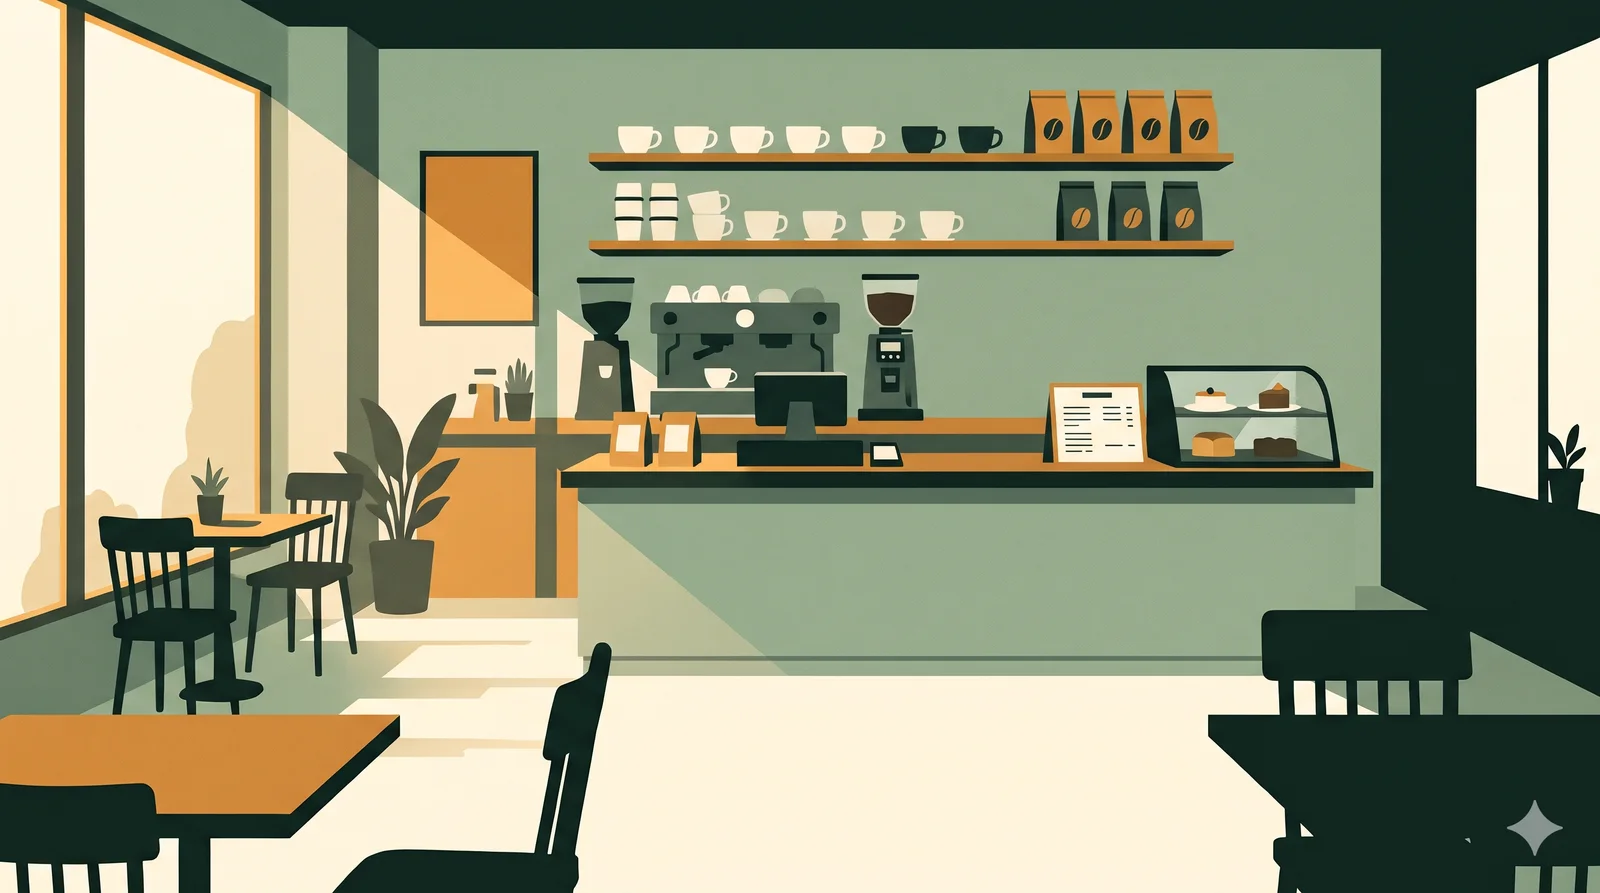
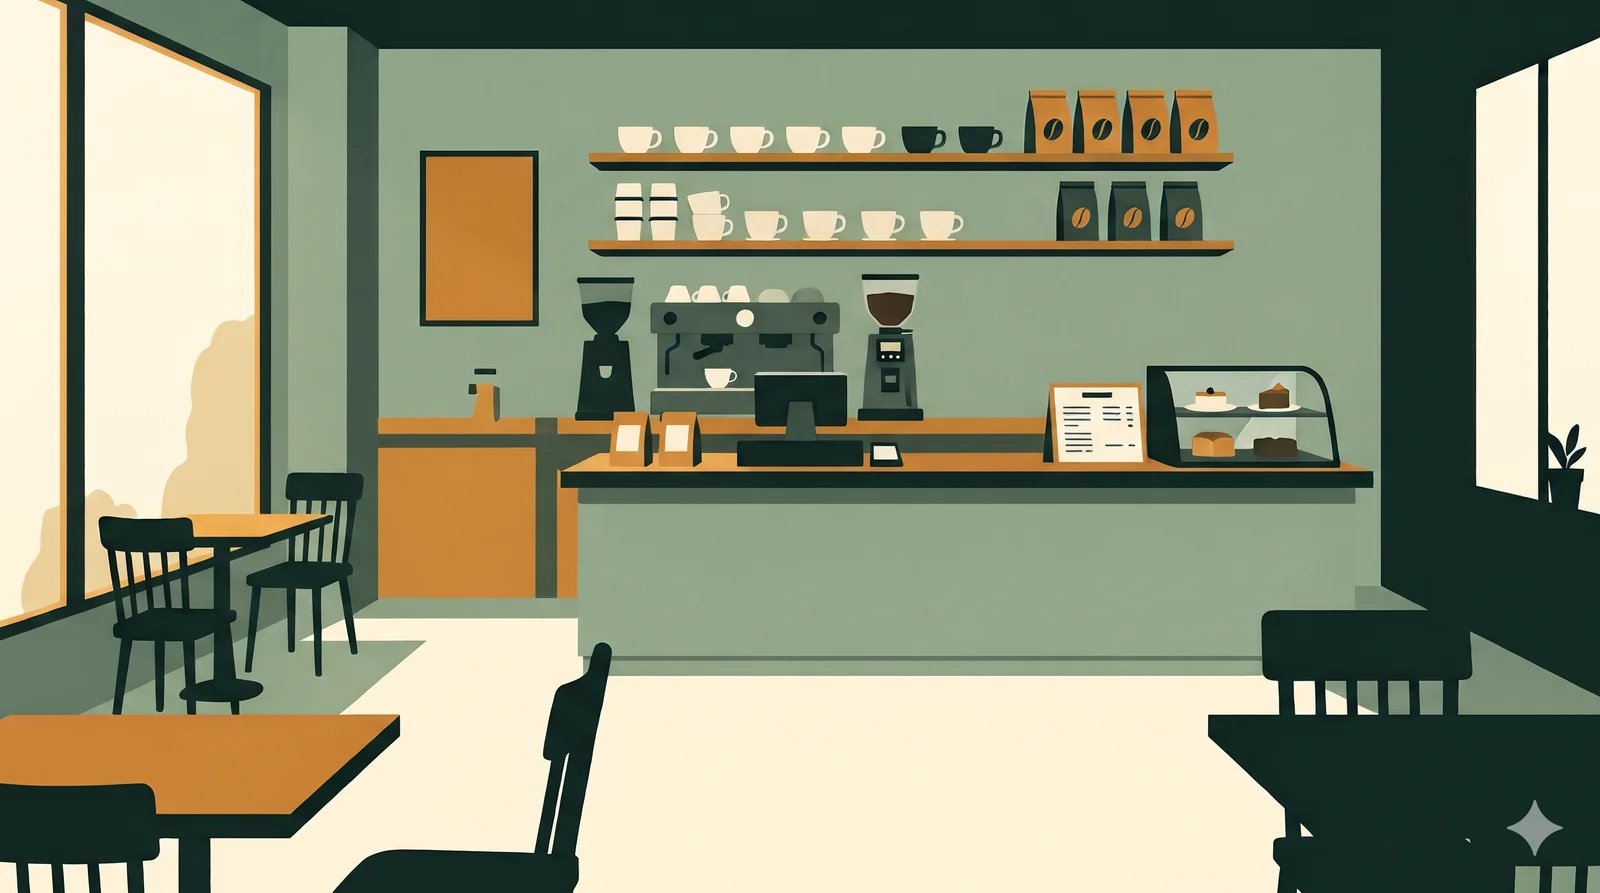
술술 카페: 배경도 살짝 살아 있게(Gemini로 화분·햇살을 지운 그림과 김을 더한 그림을 받아 층으로 떼어 냄 — 햇살은 천천히 밝아졌다 흐려지고, 화분은 흔들리고, 김은 피어오름), 장면 순서를 나 → 듣기 → 수첩으로(먼저 말해 보고 다른 손님 대화를 들음)

diff --git a/sulsul/scene.js b/sulsul/scene.js
@@ -3,9 +3,11 @@
 const CAFE = {
   who: "Leo", whoKo: "바리스타", pos: "62% 50%", voices: { them: "m", guest: "f" },
   // 움직이는 겹: 바리스타를 지운 배경 + 팔 없는 몸(숨 쉬듯) + 팔 한 층(카운터 위 팔꿈치 축으로 인사) + 앞 카운터 선반·메뉴판. 좌표는 원본 2752×1536 기준
-  layers: { w: 2752, h: 1536, plate: "img/scenes/cafe/plate.webp", box: [1560, 340, 430, 455], body: "img/scenes/cafe/body.png", hand: "img/scenes/cafe/hand.png", pivot: [1630, 720], front: [["img/scenes/cafe/counter.png", 1560, 716, 90, 54], ["img/scenes/cafe/menu.png", 1800, 652, 172, 144]] },
+  layers: { w: 2752, h: 1536, plate: "img/scenes/cafe/plate.webp", box: [1560, 340, 430, 455], body: "img/scenes/cafe/body.png", hand: "img/scenes/cafe/hand.png", pivot: [1630, 720], front: [["img/scenes/cafe/counter.png", 1560, 716, 90, 54], ["img/scenes/cafe/menu.png", 1800, 652, 172, 144]],
+    // 배경도 살짝: 햇살이 밝아졌다 흐려지고, 화분이 흔들리고, 김이 피어오른다 (Gemini로 각각 지운·더한 그림에서 떼어 냄)
+    amb: [["img/scenes/cafe/light.webp", 0, 1, 2094, 1207, "glow"], ["img/scenes/cafe/plant.png", 570, 672, 224, 392, "sway"], ["img/scenes/cafe/steam.png", 1106, 0, 558, 479, "steam"]] },
   overhear: [
-    ["them", "Good morning! What can I get for you?"],
+    ["them", "Next, please! Hi there, what can I get for you?"],
     ["guest", "Hi, can I get a hot latte, please?", [["can I get", "~ 주세요", "주문할 때 가장 흔한 말이에요. Give me보다 부드러워요."]]],
     ["them", "Sure. What size?"],
     ["guest", "A small one, please.", [["a small one", "작은 거", "one은 앞에서 말한 라테를 가리켜요. 같은 말을 또 하지 않아도 돼요."]]],
@@ -14,7 +16,7 @@ const CAFE = {
     ["them", "That's four fifty. Here's your receipt.", [["four fifty", "4달러 50센트", "가격은 숫자를 둘로 끊어 읽어요."], ["receipt", "영수증", "p는 소리 없어요. '리싯'에 가까워요."]]]
   ],
   turns: [
-    { say: "Next, please! Hi there, what can I get for you?", want: "아이스 아메리카노 하나 주문하기", need: [["아메리카노", ["americano"]]], hint: ["Can I get ~?", "Can I get an…", "Can I get an iced americano, please?"], model: "Can I get an iced americano, please?" },
+    { say: "Good morning! What can I get for you?", want: "아이스 아메리카노 하나 주문하기", need: [["아메리카노", ["americano"]]], hint: ["Can I get ~?", "Can I get an…", "Can I get an iced americano, please?"], model: "Can I get an iced americano, please?" },
     { say: "Sure! What size would you like?", want: "큰 걸로 달라고 하기", need: [["큰 것", ["large", "big", "grande", "venti"]]], hint: ["a ___ one", "A large…", "A large one, please."], model: "A large one, please." },
     { say: "For here or to go?", want: "가져갈 거라고 말하기", need: [["가져가기", ["to go", "take out", "takeout", "take it", "take away", "takeaway"]]], hint: ["To ~, please.", "To go…", "To go, please."], model: "To go, please." },
     { say: "That's five twenty. Cash or card?", want: "카드로 낸다고 하기", need: [["카드", ["card"]]], hint: ["Can I pay by ~?", "Can I pay…", "Can I pay by card?"], model: "Can I pay by card?" },
@@ -66,7 +68,7 @@ $("daystrip").onclick = e => {
 
 // ───── 장면 ─────
 let SC = null;
-const PHASES = ["엿듣기", "내 차례", "수첩"];
+const PHASES = ["나", "듣기", "수첩"];
 function openScene(sc) {
   SC = { sc, phase: 0, line: 0, turn: 0, log: [], hint: 0, tries: 0, played: false };
   nav("scene"); buildStage(sc);
@@ -80,6 +82,7 @@ function buildStage(sc) {
   const pc = (v, t) => (100 * v / t) + "%", [bx, by, bw, bh] = L2.box;
   el.dataset.w = L2.w; el.dataset.h = L2.h;
   el.innerHTML = `<img src="${L2.plate}" alt="">
+    ${(L2.amb || []).map(([src, x, y, w, h, c]) => `<img class="amb ${c}" src="${src}" alt="" style="left:${pc(x, L2.w)};top:${pc(y, L2.h)};width:${pc(w, L2.w)};height:${pc(h, L2.h)}">`).join("")}
     <div class="breath" style="left:${pc(bx, L2.w)};top:${pc(by, L2.h)};width:${pc(bw, L2.w)};height:${pc(bh, L2.h)}">
       <img src="${L2.body}" alt=""><img class="handwave" src="${L2.hand}" alt="" style="transform-origin:${pc(L2.pivot[0] - bx, bw)} ${pc(L2.pivot[1] - by, bh)}">
     </div>
@@ -98,23 +101,23 @@ function phase(n) {
   SC.phase = n;
   $("scsteps").innerHTML = PHASES.map((p, i) => `<span class="${i === n ? "on" : i < n ? "done" : ""}">${p}</span>`).join("");
   $("scbubble").hidden = true; $("chunkcard").hidden = true;
-  if (n === 0) overhear();
-  if (n === 1) myTurn();
+  if (n === 0) myTurn();
+  if (n === 1) overhear();
   if (n === 2) notebook();
 }
 const chunked = (en, chunks = []) => chunks.reduce((h, [c], i) => h.replace(new RegExp(c.replace(/[.*+?^${}()|[\]\\]/g, "\\$&"), "i"), m => `<span class="chunk" role="button" tabindex="0" data-c="${i}">${m}</span>`), esc(en));
 function bubble(who, en, ko) {
   const b = $("scbubble"); b.hidden = false; b.className = "bubble2 " + who;
-  b.innerHTML = `<small>${who === "them" ? `${SC.sc.who} · ${SC.sc.whoKo}` : who === "guest" ? "앞 손님" : "나"}</small><span lang="en">${esc(en)}</span>${ko ? `<em>${esc(ko)}</em>` : ""}`;
+  b.innerHTML = `<small>${who === "them" ? `${SC.sc.who} · ${SC.sc.whoKo}` : who === "guest" ? "다음 손님" : "나"}</small><span lang="en">${esc(en)}</span>${ko ? `<em>${esc(ko)}</em>` : ""}`;
   b.style.animation = "none"; void b.offsetWidth; b.style.animation = "";
 }
-// 1. 엿듣기: 점원과 앞 손님 대화가 흘러간다. 밑줄 덩어리를 누르면 뜻과 이유
+// 2. 듣기: 내가 먼저 말해 본 뒤, 다른 손님이 같은 주문을 하는 걸 듣는다. 밑줄 덩어리를 누르면 뜻과 이유
 async function overhear() {
   const lines = SC.sc.overhear;
-  $("scpanel").innerHTML = `<p class="lead2">앞 손님이 주문하는 걸 엿들어요. 밑줄 친 말을 누르면 뜻이 나와요.</p><ol class="script" id="script"></ol>
-    <div class="scfoot"><button class="btn ghost" id="replay"><i class="ph-fill ph-speaker-high"></i>다시 듣기</button><button class="btn" id="tome" disabled>내 차례 <i class="ph-bold ph-arrow-right"></i></button></div>`;
+  $("scpanel").innerHTML = `<p class="lead2">이번엔 다른 손님이 주문하는 걸 들어요. 내가 막혔던 말이 어떻게 나오는지 들어 보세요. 밑줄 친 말을 누르면 뜻이 나와요.</p><ol class="script" id="script"></ol>
+    <div class="scfoot"><button class="btn ghost" id="replay"><i class="ph-fill ph-speaker-high"></i>다시 듣기</button><button class="btn" id="tome" disabled>수첩 보기 <i class="ph-bold ph-arrow-right"></i></button></div>`;
   $("replay").onclick = () => playScript();
-  $("tome").onclick = () => phase(1);
+  $("tome").onclick = () => phase(2);
   $("script").onclick = e => { const c = e.target.closest(".chunk"); if (!c) return; const li = c.closest("li"), ch = lines[+li.dataset.i][2][+c.dataset.c]; showChunk(ch) };
   $("script").onkeydown = e => { if ((e.key === "Enter" || e.key === " ") && e.target.closest(".chunk")) { e.preventDefault(); e.target.click() } };
   playScript();
@@ -124,9 +127,9 @@ async function playScript() {
   const run = ++playing, lines = SC.sc.overhear;
   $("script").innerHTML = "";
   for (let i = 0; i < lines.length; i++) {
-    if (run !== playing || SC?.phase !== 0) return;
+    if (run !== playing || SC?.phase !== 1) return;
     const [who, en, ch] = lines[i];
-    $("script").insertAdjacentHTML("beforeend", `<li class="${who}" data-i="${i}"><small>${who === "them" ? SC.sc.who : "앞 손님"}</small><span lang="en">${chunked(en, ch)}</span></li>`);
+    $("script").insertAdjacentHTML("beforeend", `<li class="${who}" data-i="${i}"><small>${who === "them" ? SC.sc.who : "다음 손님"}</small><span lang="en">${chunked(en, ch)}</span></li>`);
     $("script").lastElementChild.scrollIntoView({ block: "nearest", behavior: "smooth" });
     bubble(who, en);
     if (listenOn()) await speak(en, S.prefs.rate, SC.sc.voices[who]); else await new Promise(r => setTimeout(r, 900 + en.length * 25));
@@ -140,10 +143,10 @@ function showChunk([c, m, why]) {
   k.querySelector("button").onclick = () => speak(c);
   speak(c);
 }
-// 2. 내 차례: 상대 말을 듣고, 한국어 '하고 싶은 말'만 보고 내가 직접 말한다
+// 1. 나: 바리스타가 나에게 말을 건다. 한국어 '하고 싶은 말'만 보고 내가 먼저 직접 말한다
 function myTurn() {
   const t = SC.sc.turns[SC.turn];
-  if (!t) return phase(2);
+  if (!t) return phase(1);
   SC.hint = 0; SC.tries = 0;
   bubble("them", t.say);
   const typing = !speakOn();
@@ -212,7 +215,7 @@ function judgeTurn(input, spoken) {
   SC.log.push({ want: t.want, mine: said, model: t.model, hint: SC.hint, tries: SC.tries, chunk: t.chunk });
   const same = normS(said) === normS(t.model);
   $("scpanel").innerHTML = `<div class="okcard"><b><i class="ph-fill ph-check-circle"></i>통했어요</b><p class="mine" lang="en">${esc(said)}</p>${same ? "" : `<p class="better"><small>이렇게 말하면 더 자연스러워요</small><span lang="en">${esc(t.model)}</span><button class="say-mini" id="playmodel" aria-label="듣기"><i class="ph-fill ph-speaker-high"></i></button></p>`}</div>
-    <div class="scfoot"><button class="btn" id="nextturn">${SC.turn + 1 < SC.sc.turns.length ? "다음" : "수첩 보기"} <i class="ph-bold ph-arrow-right"></i></button></div>`;
+    <div class="scfoot"><button class="btn" id="nextturn">${SC.turn + 1 < SC.sc.turns.length ? "다음" : "이제 듣기"} <i class="ph-bold ph-arrow-right"></i></button></div>`;
   if (!same) { $("playmodel").onclick = () => speak(t.model); speak(t.model) }
   $("nextturn").onclick = () => { SC.turn++; myTurn() };
   void spoken;

diff --git a/sulsul/index.html b/sulsul/index.html
@@ -105,7 +105,14 @@ label.f { display: grid; gap: 4px; margin-top: 12px; font-size: 15px; font-weigh
 .scstage { position: relative; height: 46vh; min-height: 280px; max-height: 420px; overflow: hidden; background: #e8e2d0 }
 .scimg { position: absolute }
 .scimg > img:first-child { position: absolute; inset: 0; width: 100%; height: 100%; object-fit: cover }
-.scimg .breath, .scimg .front { position: absolute }
+.scimg .breath, .scimg .front, .scimg .amb { position: absolute }
+/* 배경도 아주 조금: 햇살, 화분, 김 */
+.amb.glow { animation: glow 9s ease-in-out infinite }
+@keyframes glow { 50% { opacity: .5 } }
+.amb.sway { transform-origin: 50% 100%; animation: sway 7s ease-in-out infinite }
+@keyframes sway { 25% { transform: rotate(1.3deg) } 75% { transform: rotate(-1deg) } }
+.amb.steam { transform-origin: 40% 100%; animation: steam 4.5s ease-in-out infinite alternate }
+@keyframes steam { from { opacity: .45; transform: translateY(5px) skewX(1deg) } to { opacity: .95; transform: translateY(-7px) skewX(-3deg) } }
 .scimg .breath img { position: absolute; inset: 0; width: 100%; height: 100% }
 /* 사람만 아주 조금: 숨 쉬듯 커졌다 작아지고, 손은 가끔 인사한다 */
 .breath { transform-origin: 50% 100%; animation: breathe 4.8s ease-in-out infinite }
